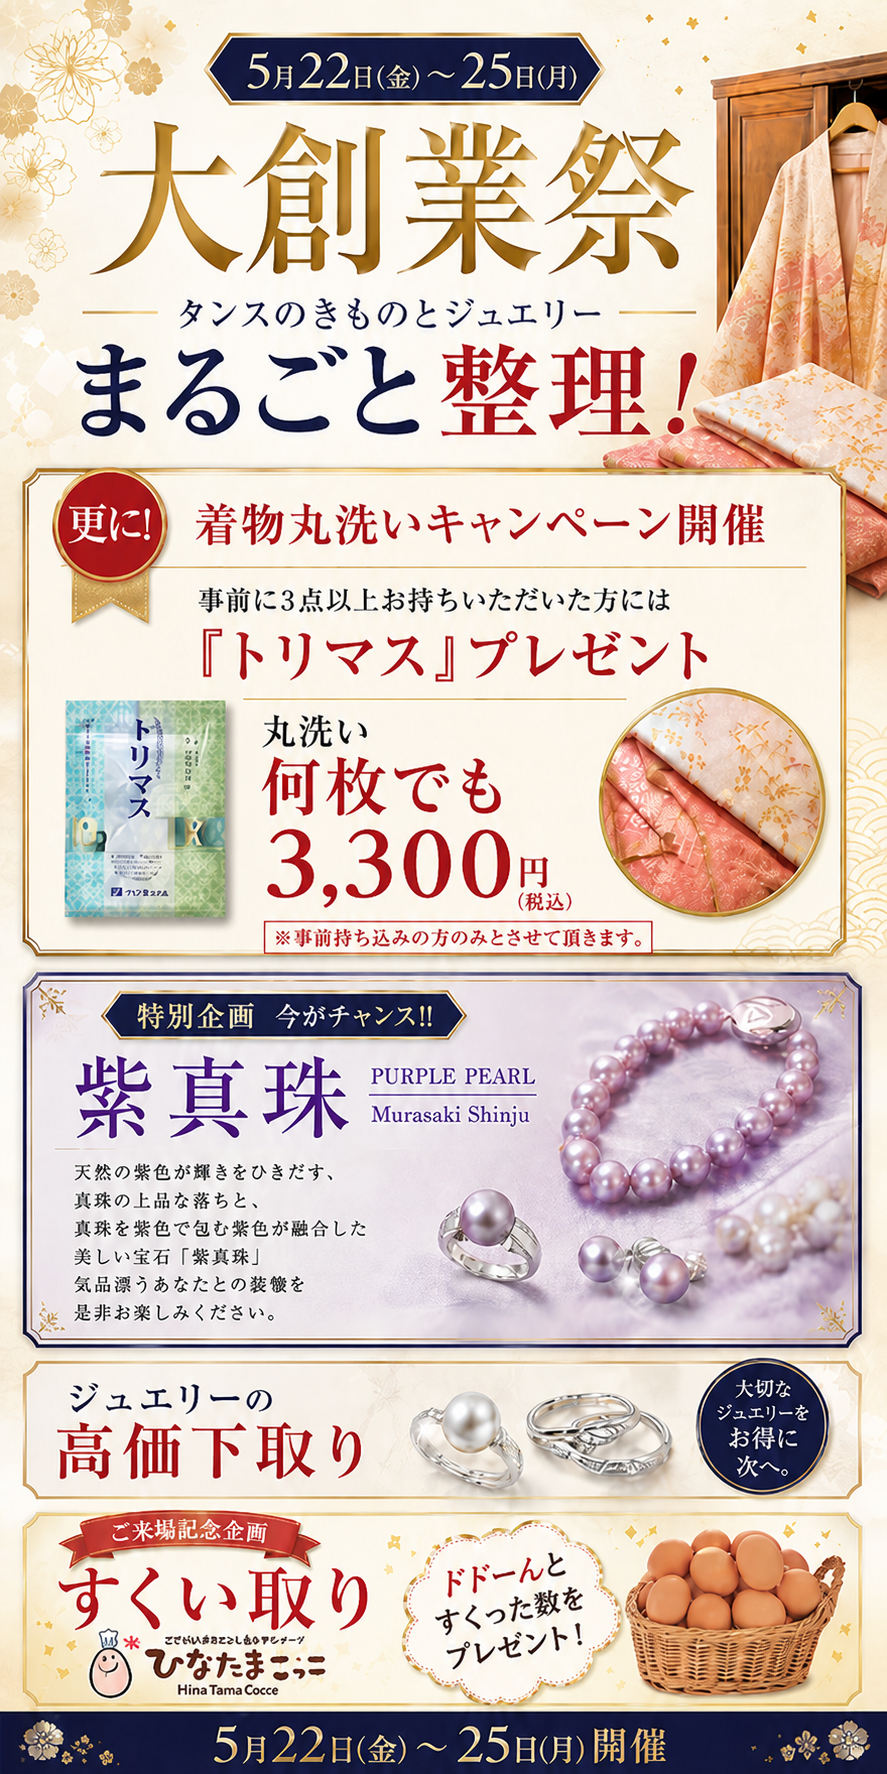
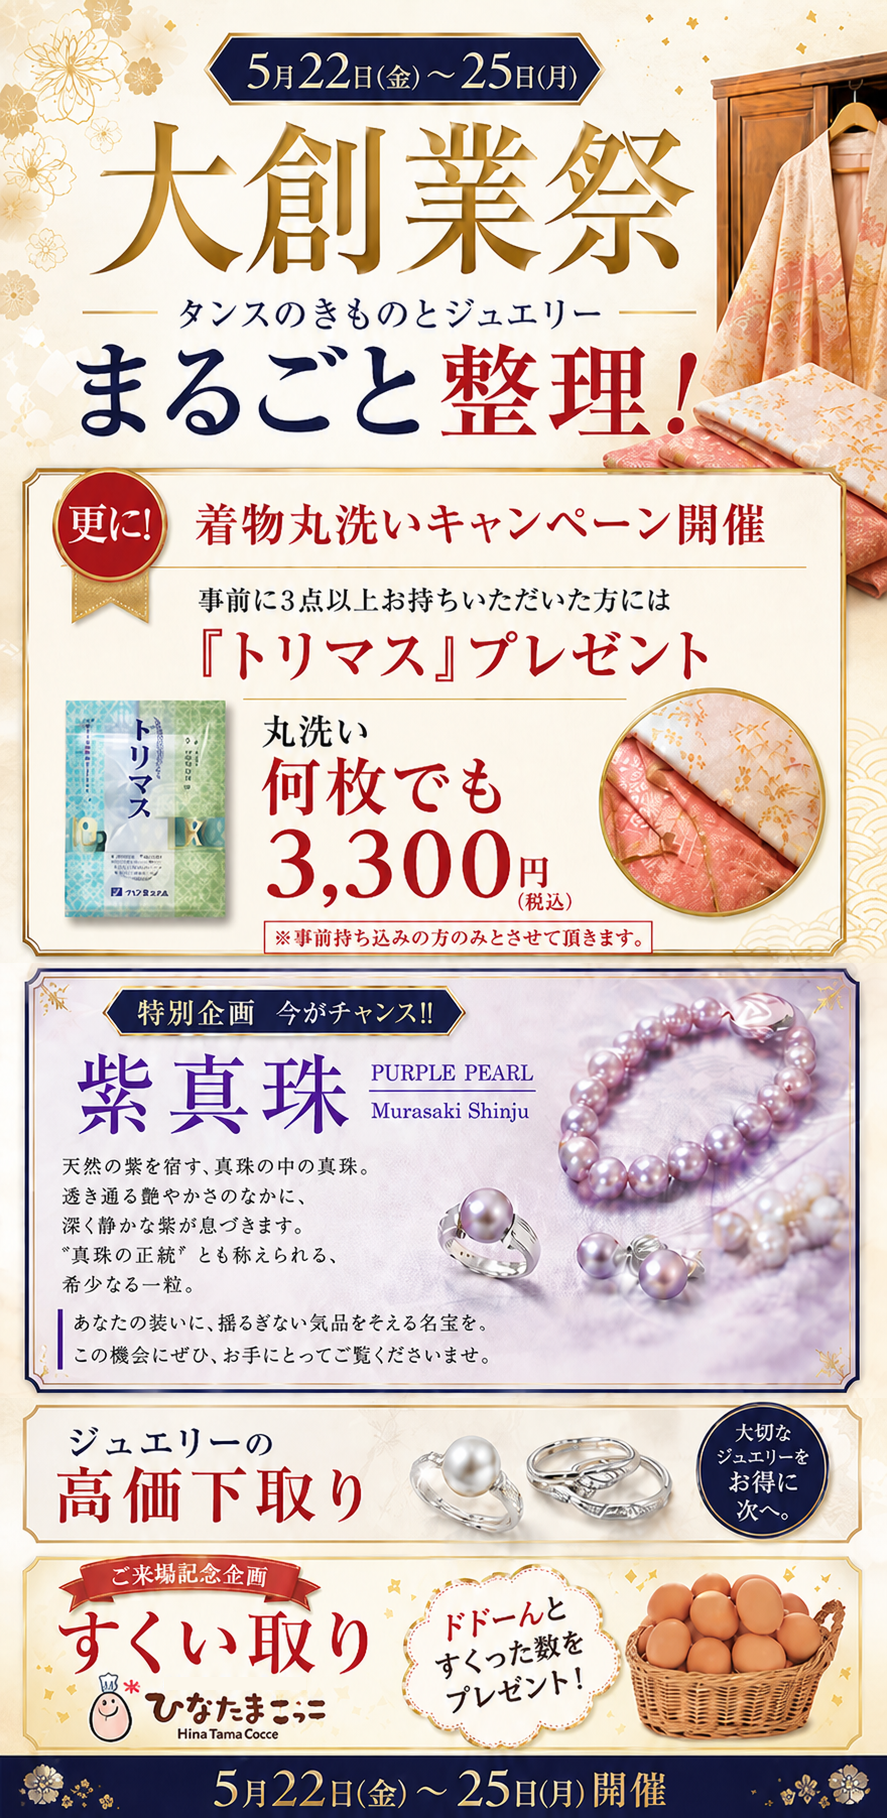
feat(lp): TOP画像を新版に差し替え + 余白なしでフルサイズ表示
ヒーロー部分の刷新:
- poster.png を新しい大創業祭_fukui.png に差し替え（紫真珠コピーが綺麗な版）
- 画像周りの border / outline / box-shadow / padding を全廃
- 画像 max-width を 440px → 720px に拡大、画面幅近くまで大きく表示
- PC 横並びレイアウトを廃止、画像中心の縦並びに統一
- 画像下のコピー欄は最小化（タイトル/リード/特典リストはチラシに含まれるため削除）
- 開催期間ボックスと CTA のみを残してすっきり

H1 はアクセシビリティ用に視覚的に隠した形で残置。

diff --git a/resources/views/event/lp/templates/daisougyousai.blade.php b/resources/views/event/lp/templates/daisougyousai.blade.php
@@ -79,9 +79,9 @@ a { color: var(--ds-akane); }
 .ds-header__brand-jp { font-family: 'Yuji Syuku', serif; font-size: 1.3rem;
     color: var(--ds-akane); margin-top: 2px; letter-spacing: .15em; }
 
-/* ====== ヒーロー（ポスター画像中心） ====== */
+/* ====== ヒーロー（ポスター画像中心・余白なし大きく） ====== */
 .ds-hero {
-    position: relative; padding: 40px 0 60px; overflow: hidden;
+    position: relative; padding: 0 0 56px; overflow: hidden;
     background:
         radial-gradient(ellipse 80% 60% at 50% 0%, rgba(255,247,222,1) 0%, transparent 70%),
         radial-gradient(circle at 12% 30%, rgba(245,212,220,.35), transparent 35%),
@@ -89,40 +89,27 @@ a { color: var(--ds-akane); }
         linear-gradient(180deg, var(--ds-bg) 0%, var(--ds-bg-2) 100%);
 }
 .ds-hero__inner {
-    position: relative; padding: 0 22px;
-    max-width: 720px; margin: 0 auto; text-align: center;
-}
-@media (min-width: 880px) {
-    .ds-hero__inner {
-        max-width: 1080px; display: grid;
-        grid-template-columns: minmax(0, 1fr) minmax(0, 1fr);
-        gap: 56px; align-items: center; text-align: left;
-    }
-    .ds-hero__poster-wrap { display: flex; justify-content: center; }
-    .ds-hero__copy { padding-right: 8px; }
+    position: relative; max-width: 100%; margin: 0 auto; text-align: center;
 }
 
+.ds-hero__poster-wrap {
+    display: block; line-height: 0; margin: 0 0 32px;
+}
 .ds-hero__poster {
-    position: relative; display: inline-block; max-width: 100%;
-    margin: 0 auto;
-    border-radius: 6px;
-    box-shadow:
-        0 4px 0 rgba(0,0,0,.03),
-        0 30px 70px rgba(125,28,37,.22),
-        0 12px 28px rgba(125,28,37,.14);
-    border: 6px solid #fffaef;
-    outline: 1px solid rgba(201,169,97,.55);
-    outline-offset: 0;
-    transition: transform .3s ease;
+    display: block; width: 100%; padding: 0; margin: 0;
+    border: 0; outline: none; box-shadow: none; background: transparent;
 }
-.ds-hero__poster:hover { transform: translateY(-2px); }
 .ds-hero__poster img {
-    display: block; width: auto; max-width: 440px; max-height: 78vh; height: auto;
-    border-radius: 2px;
+    display: block; width: 100%; max-width: 720px; height: auto;
+    margin: 0 auto; padding: 0; border: 0;
 }
-@media (max-width: 600px) {
-    .ds-hero__poster { border-width: 4px; }
-    .ds-hero__poster img { max-width: 100%; max-height: none; }
+
+.ds-hero__copy {
+    padding: 0 22px; max-width: 640px; margin: 0 auto; text-align: center;
+}
+.ds-hero__hidden {
+    position: absolute; left: -9999px; width: 1px; height: 1px;
+    overflow: hidden; clip: rect(0,0,0,0);
 }
 
 .ds-hero__eyebrow {
@@ -175,11 +162,8 @@ a { color: var(--ds-akane); }
 
 .ds-hero__cta { display: flex; flex-direction: column; gap: 10px;
     align-items: center; }
-@media (min-width: 880px) {
-    .ds-hero__cta { align-items: flex-start; }
-    .ds-hero__period-box { align-items: flex-start; }
-    .ds-hero__points { align-items: flex-start; }
-}
+.ds-hero__period-box { margin-left: auto; margin-right: auto; }
+.ds-hero__points { align-items: center; max-width: 480px; margin-left: auto; margin-right: auto; }
 .ds-hero__cta-note { font-family: 'Shippori Mincho B1', serif;
     color: var(--ds-sumi-soft); font-size: .85rem; }
 
@@ -574,24 +558,13 @@ a { color: var(--ds-akane); }
                 <img src="{{ $imgBase }}/poster.png" alt="大創業祭 5月22日(金)〜25日(月) 京呉服 平田" loading="eager">
             </div>
         </div>
+        <h1 class="ds-hero__hidden">大創業祭 — 京呉服 平田 福井店</h1>
         <div class="ds-hero__copy">
-            <p class="ds-hero__eyebrow">FUKUI 2026 — SPRING</p>
-            <h1 class="ds-hero__title">大創業祭</h1>
-            <p class="ds-hero__lead">
-                タンスの<strong>きもの</strong>と<strong>ジュエリー</strong>、<br>
-                まるごと整理する 4 日間。
-            </p>
             <div class="ds-hero__period-box">
                 <p class="ds-hero__period-label">— 開催期間 —</p>
                 <p class="ds-hero__period-date">2026年 5月22日（金）〜 25日（月）</p>
                 <p class="ds-hero__period-venue">京呉服 平田 福井店</p>
             </div>
-            <ul class="ds-hero__points">
-                <li>着物丸洗い <strong>3,300円</strong>（しみ抜き・汗取りも特別価格）</li>
-                <li>事前持込 3点以上で <strong>「トリマス」プレゼント</strong></li>
-                <li>紫真珠 特別企画／ジュエリー <strong>高価下取り</strong></li>
-                <li>ご来場記念 <strong>すくい取り</strong>（おたまご）</li>
-            </ul>
             <div class="ds-hero__cta">
                 <a href="#reserve" class="ds-cta-button">ご来場予約はこちら</a>
                 <small class="ds-hero__cta-note">▼ 30秒で完了 ／ 事前予約優先でご案内</small>